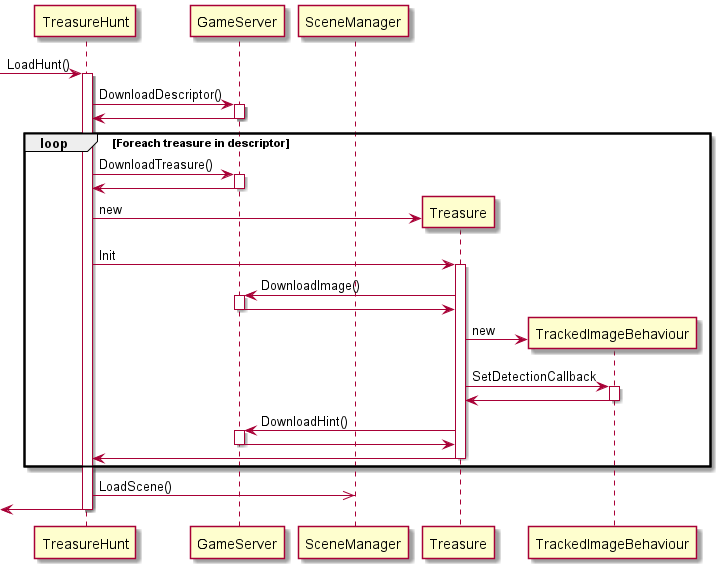
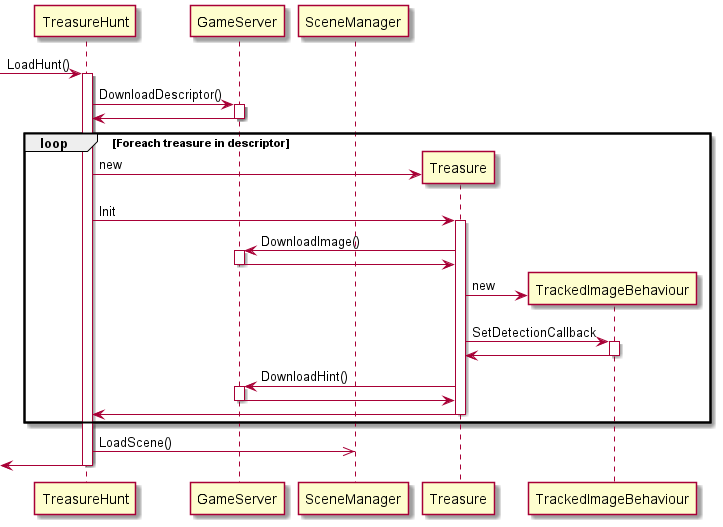
Added score display

diff --git a/Assets/Scripts/TreasureHunt/GameManager.cs b/Assets/Scripts/TreasureHunt/GameManager.cs
@@ -1,14 +1,17 @@
 using System.Collections;
 using System.Collections.Generic;
+using TMPro;
 using UnityEngine;
 using Vuforia;
 
 public class GameManager : MonoBehaviour {
     public GameObject[] MinigamesList;
     public GameObject HintPrompt;
+    public TextMeshProUGUI ScoreText;
 
     private Dictionary<string, GameObject> minigames;
     private int currentTreasure = 0;
+    private int score = 0;
     private bool pauseDetection = false;
 
     void Start() {
@@ -27,15 +30,21 @@ public class GameManager : MonoBehaviour {
         HintPrompt.SetActive(true);
     }
 
+    private void AddPoints(int points) {
+        score += points;
+        if (ScoreText != null) ScoreText.text = (score * 15).ToString();
+    }
+
     public void StartChallenge(int level, string hint, string minigame) {
         Debug.Log(level);
-        if (level != currentTreasure || pauseDetection) return;
+        if (pauseDetection || level != currentTreasure) return;
         pauseDetection = true;
         Debug.Log(minigame.ToLower());
         var game = Instantiate(minigames[minigame.ToLower()]).GetComponent<Minigame>();
         game.SetCompletionCallback((bool status) => {
             Debug.Log("Completed game " + level + " " + status);
             currentTreasure++;
+            AddPoints(1);
             DisplayHint(hint, () => {
                 game.Cleanup();
             });

diff --git a/Assets/Scripts/TreasureHunt/TreasureHunt.cs b/Assets/Scripts/TreasureHunt/TreasureHunt.cs
@@ -101,9 +101,9 @@ public class TreasureHunt : MonoBehaviour {
      * @param server The data source server
      */
     private IEnumerator DoLoad(string id, GameServer server) {
-        Debug.Log("Test");
+        yield return SceneManager.LoadSceneAsync("TreasureHunt", LoadSceneMode.Single);
         SceneManager.MoveGameObjectToScene(gameObject, SceneManager.GetActiveScene());
-        Debug.Log(server);
+
         yield return server.DownloadDescriptor(id, (HuntDescriptor descriptor) => {
             StartCoroutine(server.DownloadHint(descriptor.hint, (string text) => {
                 hint = text;
@@ -120,7 +120,6 @@ public class TreasureHunt : MonoBehaviour {
             }
             treasures = treasuresList.ToArray();
         });
-        yield return SceneManager.LoadSceneAsync("TreasureHunt", LoadSceneMode.Single);
     }
     
     private IEnumerator SwitchScene() {
